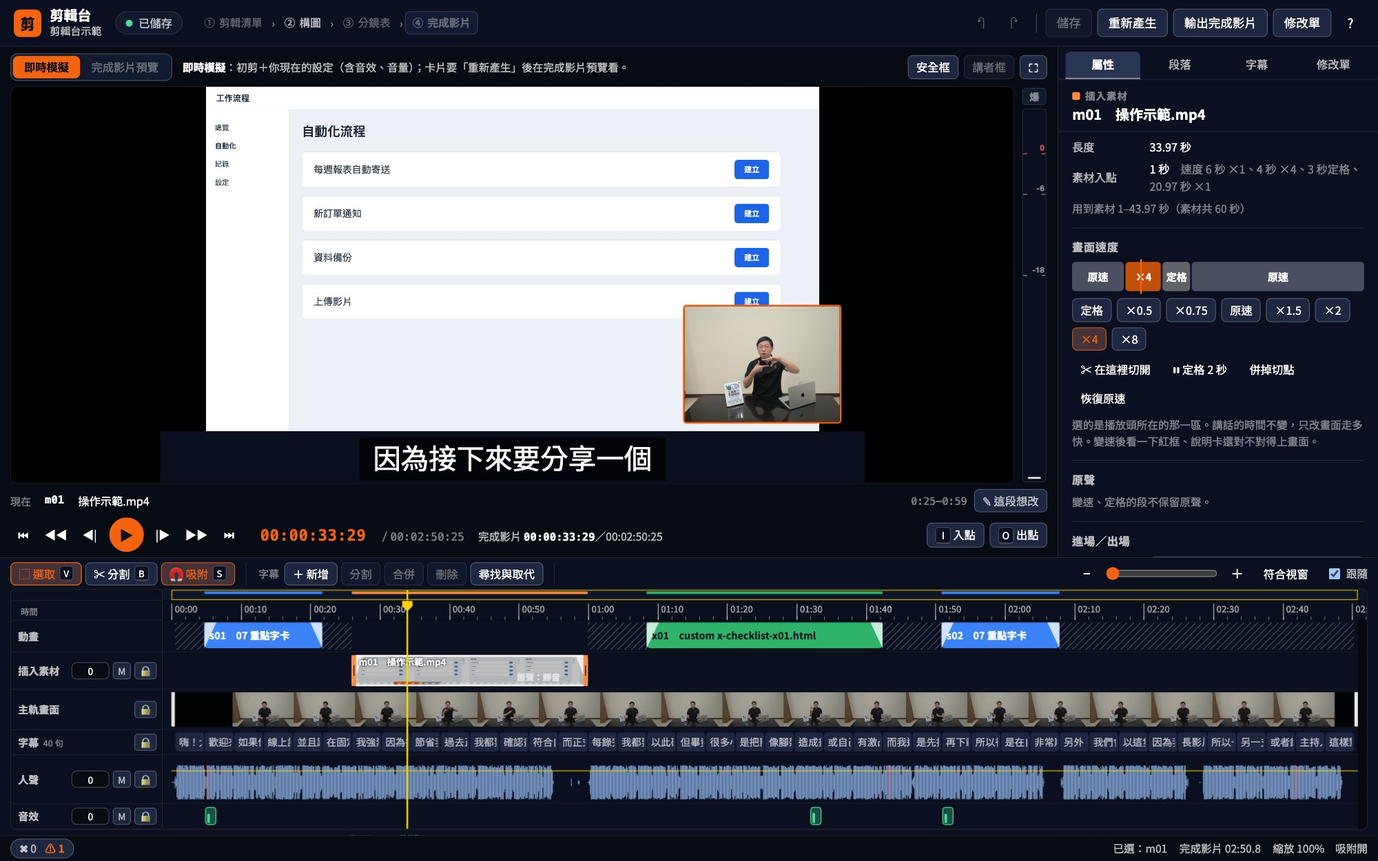
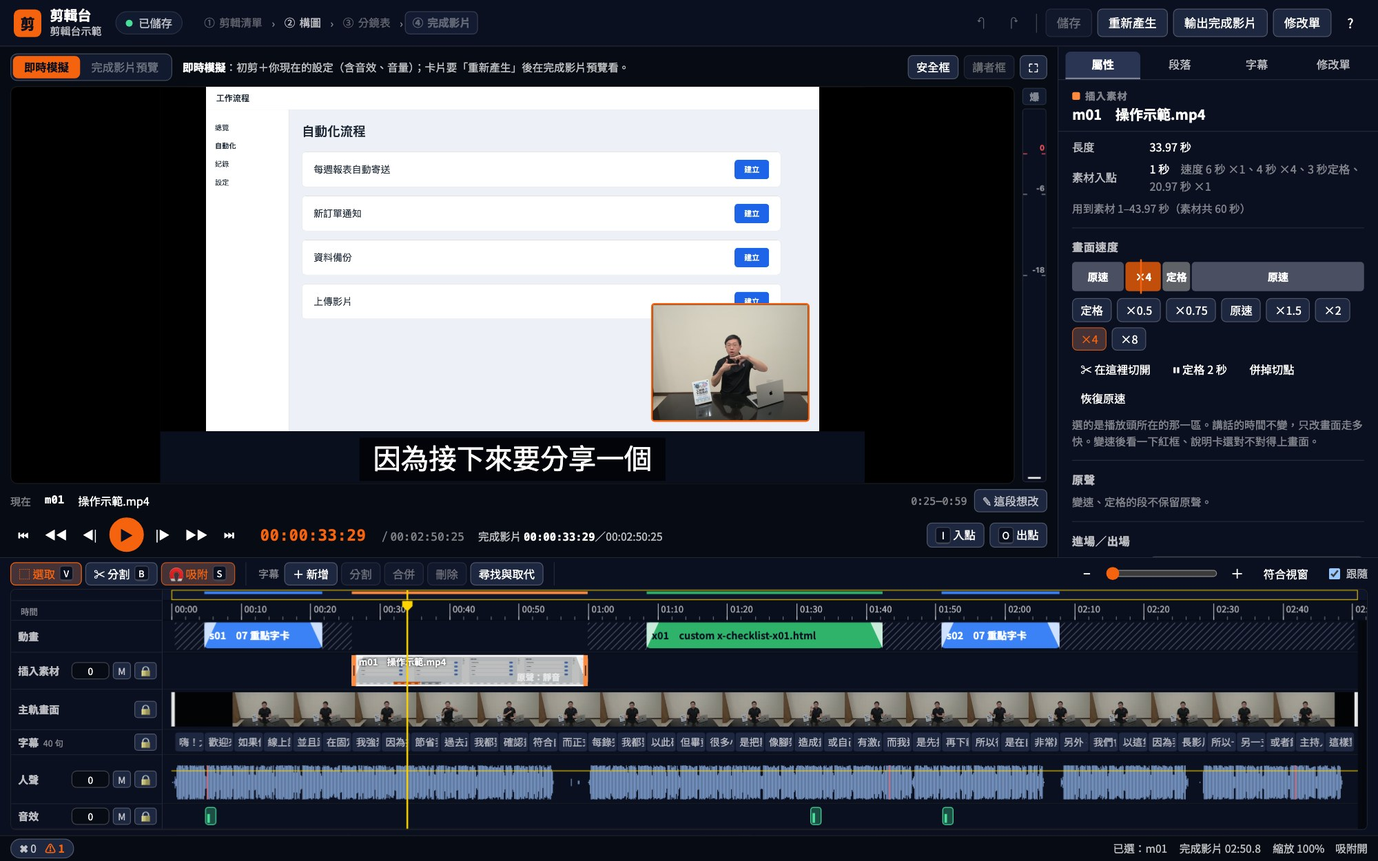
橫式錄影段的子母畫面移進錄影右下角，不再凸出錄影外面
- 外框離錄影邊 16 px，右緣和小節角標對齊（16:9 錄影：本體 x 1339–1771、y 591–915）；不用寫座標，比例不同自動算
- 只碰到素材邊邊的（手機直式、正方形的圖）留在原位；鋪滿、tape、右側步驟清單的段不移；直式不受影響
- 紅框、說明卡、箭頭、放大鏡的避讓範圍，錄影從小視窗長出的進場、講者飛進小視窗的落點，剪輯台預覽都跟著新位置
- 和位置不同的段相接時，小視窗滑 0.6 秒過去；--check --json 的 items[].out 加 pipShift
- README、官網（功能清單、常見問題、剪輯台截圖）、llms.txt、style.md、USAGE、規格同步更新；補測試

Changed region(s): [[0.465, 0.3432, 0.62, 0.4992]]

diff --git a/dev/site/index.html b/dev/site/index.html
@@ -70,7 +70,7 @@
     "橫式長片與直式短影片",
     "風格包：主色、背景、亮暗主題",
     "網頁版剪輯台：裁剪、音量、轉場、字幕、卡片文字即時改；螢幕錄影可以自己快轉、減速、定格",
-    "螢幕錄影分析：自動找出切頁、開視窗、等待、捲動，AI 加紅框、箭頭、放大、打碼",
+    "螢幕錄影分析：自動找出切頁、開視窗、等待、捲動，AI 加紅框、箭頭、放大、打碼；講者小視窗自動放進錄影範圍內",
     "只有開頭結尾露臉也可以：沒有講者的段自動用全螢幕，和縮到 87% 的錄影對齊",
     "構圖頁：拖框、選主色、上傳背景，用自己的畫面預覽動畫，儲存後自動更新剪輯預覽",
     "AI 背景設計：複製生圖指令，A／B／C 三組背景依全畫面、側邊欄、章節各自選圖，套用本集風格",
@@ -238,6 +238,14 @@
      "acceptedAnswer": {
       "@type": "Answer",
       "text": "可以。開頭結尾的錄影放 camera、中間的旁白放 voice，檔名照順序編號；如果中間是邊錄邊講的螢幕錄影，放 screen 也會自動接進主軌。工具會認出中間沒有講者，不放小視窗，動畫改用全螢幕。"
+     }
+    },
+    {
+     "@type": "Question",
+     "name": "螢幕錄影和講者小視窗會互相擋到嗎？",
+     "acceptedAnswer": {
+      "@type": "Answer",
+      "text": "錄影縮到 87% 放在字幕上方，講者小視窗會自動移進錄影的右下角，不會凸出錄影外面，也不用自己算位置；手機直式、正方形這種窄的素材，小視窗留在旁邊。重點剛好被擋到時工具會提醒，可以推近那一塊，或讓那一段不露臉。"
      }
     },
     {
@@ -591,7 +599,7 @@
   <ul class="cmds">
     <li><b>「剪乾淨」</b><span>找出講錯重講、卡住的句子剪掉，縮短停頓，照講稿上字幕；做完給你一個網址，字幕疊在畫面上（只有聲音的黑屏也看得到），邊聽邊看，錯字直接改</span></li>
     <li><b>「做出完成影片」</b><span>看每段在講什麼：有素材就配素材，最值得的段專門設計動畫（每 2 分鐘至少一段），其他套模板直接產出；配上子母畫面和音效，人聲音量調到一致</span></li>
-    <li><b>「配螢幕錄影」</b><span>把操作畫面插到講到的那一段：等待的地方快轉、要看清楚的地方放慢或定格，用放大、紅框、箭頭、說明卡指出重點，金鑰和個資打碼，多步驟的操作標上 STEP</span></li>
+    <li><b>「配螢幕錄影」</b><span>把操作畫面插到講到的那一段：等待的地方快轉、要看清楚的地方放慢或定格，用放大、紅框、箭頭、說明卡指出重點，金鑰和個資打碼，多步驟的操作標上 STEP；講者小視窗會放在錄影範圍內</span></li>
     <li><b>「可以了，輸出完成影片」</b><span>輸出 final.mp4，附上驗收截圖</span></li>
     <li><b>「輸出剪映素材」</b><span>拆成主軌、透明背景的動畫片段和字幕檔，帶去剪映繼續剪</span></li>
   </ul>
@@ -874,6 +882,7 @@ P.sfx(<span class="s">'success'</span>, <span class="s">'#41'</span>);</pre>
     <details><summary><h3>只有旁白、沒有畫面的段落怎麼辦？</h3></summary><p>AI 會先找對得上講解的螢幕錄影或圖片蓋上去；找不到素材，就照講解畫成全畫面的示意動畫，不會留黑畫面。這些段沒有講者，動畫會用滿整個畫面：左右和縮到 87% 的螢幕錄影對齊，下方留給字幕，右上角留給小節角標，錄影和動畫接起來不會跳。</p></details>
     <details><summary><h3>AI 怎麼分析我放的素材？</h3></summary><p>工具先認主軌（真人錄影、旁白、邊錄邊講的螢幕錄影），找出沒有講者的句子，再掃每支螢幕錄影：哪一秒切頁、開視窗、哪裡在等待、哪裡在捲動。接著 AI 看過每支錄影和每批圖片、寫下內容和關鍵字，工具用關鍵字把素材對到字幕，寫分鏡時就知道哪一句可以配哪一段。預覽時會報告素材用了幾支、哪些沒用到。</p></details>
     <details><summary><h3>只有開頭結尾露臉，中間都是螢幕錄影可以嗎？</h3></summary><p>可以。開頭結尾的錄影放 camera、中間的旁白放 voice，檔名照順序編號；如果中間是邊錄邊講的螢幕錄影，放 screen 也會自動接進主軌。工具會認出中間沒有講者，不放小視窗，動畫改用全螢幕。</p></details>
+    <details><summary><h3>螢幕錄影和講者小視窗會互相擋到嗎？</h3></summary><p>錄影縮到 87% 放在字幕上方，講者小視窗會自動移進錄影的右下角，不會凸出錄影外面，也不用自己算位置；手機直式、正方形這種窄的素材，小視窗留在旁邊。重點剛好被擋到時工具會提醒，可以推近那一塊，或讓那一段不露臉。</p></details>
     <details><summary><h3>螢幕錄影太慢、太快怎麼辦？</h3></summary><p>AI 會把等待的地方快轉、要看清楚的地方放慢或定格，並用紅框、箭頭、放大指出重點，露出金鑰或個資的地方打碼。這些都會顯示在剪輯台：點一段錄影，色條上每一區一個速度，你也可以自己切開、改成定格、減速或快轉（最快 8 倍）。講話的時間不變，只改畫面走多快。</p></details>
     <details><summary><h3>觀眾怎麼知道現在講到哪一段？</h3></summary><p>講稿用 ## 分章、### 分小節，完成影片右上角會一直顯示「章號＋目前小節」，子母畫面、全畫面動畫和螢幕錄影都看得到；多步驟的操作，錄影角落另外有 STEP 膠囊標出第幾步。</p></details>
     <details><summary><h3>素材很大，可以放在外接硬碟嗎？</h3></summary><p>可以。專案資料夾放在外接硬碟，在 projects/ 底下建一個捷徑指過去，提示詞照樣寫 @projects/&lt;專案&gt;。工具會照常讀寫硬碟上的素材和完成影片。</p></details>

diff --git a/shared/template/tools/editor/app.js b/shared/template/tools/editor/app.js
@@ -258,7 +258,8 @@ function recompute() {
       o.exitNow = same(sc.exit, sb?.exit) ? it.exit ?? null : sc.exit ?? null;
       Object.assign(o, { in: Number.isFinite(sc.in) ? sc.in : 0, speed: Number.isFinite(sc.speed) ? sc.speed : 1, volume: sc.volume === undefined ? null : sc.volume,
         enter: sc.enter ?? null, exit: sc.exit ?? null, mediaKind: m?.kind || 'video', srcName: String(sc.src || '').split('/').pop(), srcDur: m?.info?.dur ?? null,
-        knots: speedDirty(sc, sb) || !same(sc.from, sb?.from) || !same(sc.to, sb?.to) ? knotsOf(speedModel(sc, o.end - o.start, o.start, null), m?.info?.dur ?? null) : it.out?.annotations?.knots ?? null });
+        knots: speedDirty(sc, sb) || !same(sc.from, sb?.from) || !same(sc.to, sb?.to) ? knotsOf(speedModel(sc, o.end - o.start, o.start, null), m?.info?.dur ?? null) : it.out?.annotations?.knots ?? null,
+        pipShift: it.out?.pipShift ?? null });
     }
     o.inCut = app.edit.cuts.some(([a, b]) => o.start < b && o.end > a);
     o.title = segTitle(sc) || (o.type === 'media' ? o.srcName || o.label : o.label);

diff --git a/shared/template/tools/editor/preview.js b/shared/template/tools/editor/preview.js
@@ -178,6 +178,13 @@ export class SimPreview {
     if (showPip) {
       pip.style.display = 'block';
       pip.style.opacity = String(op);
+      // 小視窗的位置和完成影片一樣：橫式錄影段在錄影裡面（lib/media.mjs pipShift）
+      const c = A.canvas?.();
+      if (Array.isArray(c?.pip)) {
+        const [dx, dy] = active.pipShift || [0, 0];
+        pip.style.left = `${((c.pip[0] + dx) / c.W) * 100}%`;
+        pip.style.top = `${((c.pip[1] + dy) / c.H) * 100}%`;
+      }
       const g = pip.getContext('2d'), v = this.v;
       if (v.videoWidth) {
         const cw = pip.width, ch = pip.height, vr = v.videoWidth / v.videoHeight, cr = cw / ch;

diff --git a/dev/loop/last-check.md b/dev/loop/last-check.md
@@ -1,19 +1,19 @@
-# check-all 2026-11-07 09:38
+# check-all 2026-11-07 10:40
 
-專案：/var/folders/w2/4tz31w6x1216lyjk6c_dy_j00000gp/T/auto-edit-check-hl4kgr/專案（合成，已清掉）；總耗時 639s；結果：全部通過
+專案：/var/folders/w2/4tz31w6x1216lyjk6c_dy_j00000gp/T/auto-edit-check-x5nZ0h/專案（合成，已清掉）；總耗時 635s；結果：全部通過
 
 | 步驟 | 結果 | 秒 | 細節 |
 |---|---|---|---|
-| node --test dev/tests/*.test.mjs | ✓ | 599.8 | pass 1184、fail 0 |
-| 合成測試專案（70 秒影片、20 句字幕、8 段 plan） | ✓ | 1.1 | /var/folders/w2/4tz31w6x1216lyjk6c_dy_j00000gp/T/auto-edit-check-hl4kgr/專案 |
-| build.mjs --check（/var/folders/w2/4tz31w6x1216lyjk6c_dy_j00000gp/T/auto-edit-check-hl4kgr/專案） | ✓ | 0.4 | 通過：8 段，13 個提醒（⚠）。；✖ 0、⚠ 13<br>⚠ 沒有畫面的區間共 3 段、11.00s → 照 style.md「連續覆蓋」補卡片或情境動畫，或把前一段的 to 延到下一段的 from（0 秒相接）；故意留給講者的就在 plan.json 寫 "rhythm": "spaced"<br>⚠ #N@詞 有 4 個用字數比例估（沒有 work/transcript.json（rough.mp4 的詞級逐字稿）），可能差 1 秒：#12@錄影、#13@逐字稿、#14@剪輯清單、#15@初剪 → 對 rough.mp4 重轉詞級逐字稿：npx hyperframes transcribe /var/folders/w2/4tz31w6x1216lyjk6c_dy_j00000gp/T/auto-edit-check-hl4kgr/專案/work/rough.mp4 -d /var/folders/w2/4tz31w6x1216lyjk6c_dy_j00000gp/T/auto-edit-check-hl4kgr/專案/work --model small --language zh --json<br>⚠ [s01 concept] 「一般字卡」大約會蓋到講者框 25% → 看 --storyboard 的截圖確認，擋到臉或手勢就換情境（例：12 關鍵詞條列、04 全畫面）<br>⚠ [s02 chapter] 沒有副標（slots.sub）：只有章號和章名，畫面很空 → 補一句 ≤ 12 字、講這一章要做什麼（講稿 ## 章名冒號後面那句可以直接用） |
-| look.mjs run（臉部偵測 → rough-look.mp4；合成影片沒有臉 → 只調光） | ✓ | 0.1 | 講者調光、瘦臉、美顏：/var/folders/w2/4tz31w6x1216lyjk6c_dy_j00000gp/T/auto-edit-check-hl4kgr/專案（rough.mp4 640×360、25 fps、1875 格、1:15.0）<br>設定：調光 關、瘦臉 關、美顏 關（kit/look.json；plan.json 沒有寫 look）<br>瘦臉、美顏都關閉（kit/look.json slim = 0、beauty = 0）→ 不用跑；調光也關 |
-| build.mjs（產生 work/hyperframes） | ✓ | 9.3 | 重新編碼底片 → ../../../../../var/folders/w2/4tz31w6x1216lyjk6c_dy_j00000gp/T/auto-edit-check-hl4kgr/專案/work/hyperframes/assets/rough.mp4（30fps、每秒一個關鍵影格、人聲調到 −14 LUFS、剪接點微淡化）…<br>量人聲響度（第一次會花一點時間，之後用快取）…<br>人聲響度 −21.9 LUFS → −13.9 LUFS（true peak −8.7）<br>音效比例：主音效比人聲小 3.0–12.6 dB（中位 5.9）；上限是比人聲小 3 dB<br>剪接點微淡化：2 個接點，前後各 15 ms<br>⚠ 沒有畫面的區間共 3 段、11.00s → 照 style.md「連續覆蓋」補卡片或情境動畫，或把前一段的 to 延到下一段的 from（0 秒相接）；故意留給講者的就在 plan.json 寫 "rhythm": "spaced"<br>沒有畫面的區間（> 1.0s）：0:01.00–0:04.50（3.50s）、0:11.00–0:14.75（3.75s）、0:17.25–0:21.00（3.75s）；共 11.00s，佔講解 15.3% |
+| node --test dev/tests/*.test.mjs | ✓ | 596.1 | pass 1189、fail 0 |
+| 合成測試專案（70 秒影片、20 句字幕、8 段 plan） | ✓ | 1.1 | /var/folders/w2/4tz31w6x1216lyjk6c_dy_j00000gp/T/auto-edit-check-x5nZ0h/專案 |
+| build.mjs --check（/var/folders/w2/4tz31w6x1216lyjk6c_dy_j00000gp/T/auto-edit-check-x5nZ0h/專案） | ✓ | 0.4 | 通過：8 段，13 個提醒（⚠）。；✖ 0、⚠ 13<br>⚠ 沒有畫面的區間共 3 段、11.00s → 照 style.md「連續覆蓋」補卡片或情境動畫，或把前一段的 to 延到下一段的 from（0 秒相接）；故意留給講者的就在 plan.json 寫 "rhythm": "spaced"<br>⚠ #N@詞 有 4 個用字數比例估（沒有 work/transcript.json（rough.mp4 的詞級逐字稿）），可能差 1 秒：#12@錄影、#13@逐字稿、#14@剪輯清單、#15@初剪 → 對 rough.mp4 重轉詞級逐字稿：npx hyperframes transcribe /var/folders/w2/4tz31w6x1216lyjk6c_dy_j00000gp/T/auto-edit-check-x5nZ0h/專案/work/rough.mp4 -d /var/folders/w2/4tz31w6x1216lyjk6c_dy_j00000gp/T/auto-edit-check-x5nZ0h/專案/work --model small --language zh --json<br>⚠ [s01 concept] 「一般字卡」大約會蓋到講者框 25% → 看 --storyboard 的截圖確認，擋到臉或手勢就換情境（例：12 關鍵詞條列、04 全畫面）<br>⚠ [s02 chapter] 沒有副標（slots.sub）：只有章號和章名，畫面很空 → 補一句 ≤ 12 字、講這一章要做什麼（講稿 ## 章名冒號後面那句可以直接用） |
+| look.mjs run（臉部偵測 → rough-look.mp4；合成影片沒有臉 → 只調光） | ✓ | 0.1 | 講者調光、瘦臉、美顏：/var/folders/w2/4tz31w6x1216lyjk6c_dy_j00000gp/T/auto-edit-check-x5nZ0h/專案（rough.mp4 640×360、25 fps、1875 格、1:15.0）<br>設定：調光 關、瘦臉 關、美顏 關（kit/look.json；plan.json 沒有寫 look）<br>瘦臉、美顏都關閉（kit/look.json slim = 0、beauty = 0）→ 不用跑；調光也關 |
+| build.mjs（產生 work/hyperframes） | ✓ | 9.3 | 重新編碼底片 → ../../../../../var/folders/w2/4tz31w6x1216lyjk6c_dy_j00000gp/T/auto-edit-check-x5nZ0h/專案/work/hyperframes/assets/rough.mp4（30fps、每秒一個關鍵影格、人聲調到 −14 LUFS、剪接點微淡化）…<br>量人聲響度（第一次會花一點時間，之後用快取）…<br>人聲響度 −21.9 LUFS → −13.9 LUFS（true peak −8.7）<br>音效比例：主音效比人聲小 3.0–12.6 dB（中位 5.9）；上限是比人聲小 3 dB<br>剪接點微淡化：2 個接點，前後各 15 ms<br>⚠ 沒有畫面的區間共 3 段、11.00s → 照 style.md「連續覆蓋」補卡片或情境動畫，或把前一段的 to 延到下一段的 from（0 秒相接）；故意留給講者的就在 plan.json 寫 "rhythm": "spaced"<br>沒有畫面的區間（> 1.0s）：0:01.00–0:04.50（3.50s）、0:11.00–0:14.75（3.75s）、0:17.25–0:21.00（3.75s）；共 11.00s，佔講解 15.3% |
 | audit.mjs --all --json（0 ✖） | ✓ | 4.0 | ✖ 0、⚠ 1 |
-| hyperframes snapshot --at（工作區釘的版本；開頭、中段、結尾各一格） | ✓ | 3.4 | 3 張（1.5,30,58.5s） |
-| 合成直式測試專案（360×640 直拍影片、20 句字幕、7 段 plan，含 16:9 錄影） | ✓ | 1.1 | /var/folders/w2/4tz31w6x1216lyjk6c_dy_j00000gp/T/auto-edit-check-v-kcsp2T/專案 |
-| 直式｜build.mjs --check（/var/folders/w2/4tz31w6x1216lyjk6c_dy_j00000gp/T/auto-edit-check-v-kcsp2T/專案） | ✓ | 0.4 | 通過：7 段，29 個提醒（⚠）。；✖ 0、⚠ 29<br>⚠ 沒有畫面的區間共 3 段、11.00s → 照 style.md「連續覆蓋」補卡片或情境動畫，或把前一段的 to 延到下一段的 from（0 秒相接）；故意留給講者的就在 plan.json 寫 "rhythm": "spaced"<br>⚠ #N@詞 有 4 個用字數比例估（沒有 work/transcript.json（rough.mp4 的詞級逐字稿）），可能差 1 秒：#12@錄影、#13@逐字稿、#14@剪輯清單、#15@初剪 → 對 rough.mp4 重轉詞級逐字稿：npx hyperframes transcribe /var/folders/w2/4tz31w6x1216lyjk6c_dy_j00000gp/T/auto-edit-check-v-kcsp2T/專案/work/rough.mp4 -d /var/folders/w2/4tz31w6x1216lyjk6c_dy_j00000gp/T/auto-edit-check-v-kcsp2T/專案/work --model small --language zh --json<br>⚠ [s01 concept] 「一般字卡」大約會蓋到講者框 37% → 看 --storyboard 的截圖確認，擋到臉或手勢就換情境（例：12 關鍵詞條列、04 全畫面）<br>⚠ [s02 chapter] 沒有副標（slots.sub）：只有章號和章名，畫面很空 → 補一句 ≤ 12 字、講這一章要做什麼（講稿 ## 章名冒號後面那句可以直接用） |
-| 直式｜look.mjs run（臉部偵測 → rough-look.mp4；合成影片沒有臉 → 只調光） | ✓ | 0.1 | 講者調光、瘦臉、美顏：/var/folders/w2/4tz31w6x1216lyjk6c_dy_j00000gp/T/auto-edit-check-v-kcsp2T/專案（rough.mp4 360×640、25 fps、1875 格、1:15.0）<br>設定：調光 關、瘦臉 關、美顏 關（kit/look.json；plan.json 沒有寫 look）<br>瘦臉、美顏都關閉（kit/look.json slim = 0、beauty = 0）→ 不用跑；調光也關 |
-| 直式｜build.mjs（產生 work/hyperframes） | ✓ | 11.3 | 重新編碼底片 → ../../../../../var/folders/w2/4tz31w6x1216lyjk6c_dy_j00000gp/T/auto-edit-check-v-kcsp2T/專案/work/hyperframes/assets/rough.mp4（30fps、每秒一個關鍵影格、人聲調到 −14 LUFS、剪接點微淡化）…<br>量人聲響度（第一次會花一點時間，之後用快取）…<br>人聲響度 −21.9 LUFS → −13.9 LUFS（true peak −8.7）<br>音效比例：主音效比人聲小 3.0–12.6 dB（中位 5.9）；上限是比人聲小 3 dB<br>剪接點微淡化：2 個接點，前後各 15 ms<br>⚠ 沒有畫面的區間共 3 段、11.00s → 照 style.md「連續覆蓋」補卡片或情境動畫，或把前一段的 to 延到下一段的 from（0 秒相接）；故意留給講者的就在 plan.json 寫 "rhythm": "spaced"<br>沒有畫面的區間（> 1.0s）：0:01.00–0:04.50（3.50s）、0:11.00–0:14.75（3.75s）、0:17.25–0:21.00（3.75s）；共 11.00s，佔講解 15.3% |
+| hyperframes snapshot --at（工作區釘的版本；開頭、中段、結尾各一格） | ✓ | 3.5 | 3 張（1.5,30,58.5s） |
+| 合成直式測試專案（360×640 直拍影片、20 句字幕、7 段 plan，含 16:9 錄影） | ✓ | 1.2 | /var/folders/w2/4tz31w6x1216lyjk6c_dy_j00000gp/T/auto-edit-check-v-44BbWe/專案 |
+| 直式｜build.mjs --check（/var/folders/w2/4tz31w6x1216lyjk6c_dy_j00000gp/T/auto-edit-check-v-44BbWe/專案） | ✓ | 0.4 | 通過：7 段，29 個提醒（⚠）。；✖ 0、⚠ 29<br>⚠ 沒有畫面的區間共 3 段、11.00s → 照 style.md「連續覆蓋」補卡片或情境動畫，或把前一段的 to 延到下一段的 from（0 秒相接）；故意留給講者的就在 plan.json 寫 "rhythm": "spaced"<br>⚠ #N@詞 有 4 個用字數比例估（沒有 work/transcript.json（rough.mp4 的詞級逐字稿）），可能差 1 秒：#12@錄影、#13@逐字稿、#14@剪輯清單、#15@初剪 → 對 rough.mp4 重轉詞級逐字稿：npx hyperframes transcribe /var/folders/w2/4tz31w6x1216lyjk6c_dy_j00000gp/T/auto-edit-check-v-44BbWe/專案/work/rough.mp4 -d /var/folders/w2/4tz31w6x1216lyjk6c_dy_j00000gp/T/auto-edit-check-v-44BbWe/專案/work --model small --language zh --json<br>⚠ [s01 concept] 「一般字卡」大約會蓋到講者框 37% → 看 --storyboard 的截圖確認，擋到臉或手勢就換情境（例：12 關鍵詞條列、04 全畫面）<br>⚠ [s02 chapter] 沒有副標（slots.sub）：只有章號和章名，畫面很空 → 補一句 ≤ 12 字、講這一章要做什麼（講稿 ## 章名冒號後面那句可以直接用） |
+| 直式｜look.mjs run（臉部偵測 → rough-look.mp4；合成影片沒有臉 → 只調光） | ✓ | 0.1 | 講者調光、瘦臉、美顏：/var/folders/w2/4tz31w6x1216lyjk6c_dy_j00000gp/T/auto-edit-check-v-44BbWe/專案（rough.mp4 360×640、25 fps、1875 格、1:15.0）<br>設定：調光 關、瘦臉 關、美顏 關（kit/look.json；plan.json 沒有寫 look）<br>瘦臉、美顏都關閉（kit/look.json slim = 0、beauty = 0）→ 不用跑；調光也關 |
+| 直式｜build.mjs（產生 work/hyperframes） | ✓ | 11.2 | 重新編碼底片 → ../../../../../var/folders/w2/4tz31w6x1216lyjk6c_dy_j00000gp/T/auto-edit-check-v-44BbWe/專案/work/hyperframes/assets/rough.mp4（30fps、每秒一個關鍵影格、人聲調到 −14 LUFS、剪接點微淡化）…<br>量人聲響度（第一次會花一點時間，之後用快取）…<br>人聲響度 −21.9 LUFS → −13.9 LUFS（true peak −8.7）<br>音效比例：主音效比人聲小 3.0–12.6 dB（中位 5.9）；上限是比人聲小 3 dB<br>剪接點微淡化：2 個接點，前後各 15 ms<br>⚠ 沒有畫面的區間共 3 段、11.00s → 照 style.md「連續覆蓋」補卡片或情境動畫，或把前一段的 to 延到下一段的 from（0 秒相接）；故意留給講者的就在 plan.json 寫 "rhythm": "spaced"<br>沒有畫面的區間（> 1.0s）：0:01.00–0:04.50（3.50s）、0:11.00–0:14.75（3.75s）、0:17.25–0:21.00（3.75s）；共 11.00s，佔講解 15.3% |
 | 直式｜audit.mjs --all --json（0 ✖） | ✓ | 3.9 | ✖ 0、⚠ 2 |
-| 直式｜hyperframes snapshot --at（工作區釘的版本；開頭、中段、結尾各一格） | ✓ | 3.9 | 3 張（1.5,30,58.5s） |
+| 直式｜hyperframes snapshot --at（工作區釘的版本；開頭、中段、結尾各一格） | ✓ | 3.7 | 3 張（1.5,30,58.5s） |

diff --git a/shared/style.md b/shared/style.md
@@ -236,6 +236,7 @@ audit 會量、不用自己算的：標籤 ≤ 10 字、同一列元件中線對
 - 錄影露出個資（資料夾名稱、email、金鑰、通知）：換一段沒有的、用 `hold` 停在乾淨的那格，都不行就告訴使用者，不要硬放
 - 錄影預設靜音，只聽講解；講解在講錄影本身的聲音（提示音、語音回覆）時才保留（`volume` 先寫 −6，蓋過人聲再調小）
 - 講者縮到右下角子母畫面；只有聲音的段落沒有講者，不放子母畫面，全畫面的段自動換「全寬」版型（本檔「版面」）
+- 橫式錄影段的子母畫面要在錄影範圍內：工具自動移進素材右下角，外框離素材邊 16（16:9 錄影：本體 x 1339–1771、y 591–915，右緣和小節角標對齊），不用寫座標；小視窗只碰到素材邊邊（手機直式、正方形的圖）才留在畫布右下；和位置不同的段相接時滑 0.6 秒過去
 - 錄影段落不放下方資訊卡；要強調畫面上的東西，用紅框、說明卡、聚光燈、箭頭、運鏡、放大鏡；字卡密度往稀的那端下
 - 說明卡（callout）屬於標註，不是資訊卡：它是紅框旁邊用引線接出去的一張小卡，只在錄影段用，所以不違反「錄影段落不放下方資訊卡」。一張卡只寫一個名詞或一個動作，最多 12 字（全形 1、半形 0.5），可以配一個圖示；細節交給講解
 - 說明卡至少完整停 1.2 秒（一般進場 until − at ≥ 2.35 秒）；短句用 quick 一起淡入，至少完整停 0.8 秒（until − at ≥ 1.35 秒）；卡片放框的哪一邊由 build 自動挑，放不下會告訴你換哪邊

diff --git a/shared/template/USAGE.md b/shared/template/USAGE.md
@@ -518,7 +518,7 @@ m01｜media 操作示範.mp4｜1:01.30–1:14.10｜12.8s｜—｜—（rough 1:0
 | `retime` | — | 同一段裡變速、定格：`[{ "at": "#21", "src": 19 }, …]`，講到 `at` 時錄影在第 `src` 秒，兩點之間速度 build 算（下限 ×0.25、上限 ×16，3 秒內的跳過等待可到 ×64）；`src` 一樣＝定格。第一點之前、最後一點之後是正常速度。運鏡、紅框跨整段；不保留原聲；和 `in`／`out`／`speed`／`hold` 擇一 |
 | `redact` | — | 打碼：`[{ "box": [x, y, w, h], "at": "#21", "until": "#22e" }]`，框裡的東西模糊後燒進影片（放大鏡也看不到原文）；`at`、`until` 不寫＝整段。框要蓋住那段時間它會出現的所有位置，build 完在拼圖看一次 |
 | `fit` | `"contain"` | `contain`＝整張看得到，放在字幕帶上方（y 0–940），空白處是黑底；`cover`＝鋪滿 1920×1080，多的裁掉 |
-| `pip` | `true` | 右下角子母畫面露臉；只有聲音的區間自動不放。`false`＝整段不露臉 |
+| `pip` | `true` | 右下角子母畫面露臉（橫式會自動移進素材右下角，不用寫座標）；只有聲音的區間自動不放。`false`＝整段不露臉 |
 | `volume` | `null` | `null`＝素材靜音；寫 dB 數字（−60～+12）＝保留素材原聲 |
 | `enter`／`exit` | `"fade"` | `"cut"`、`"fade"`、`"slide"`（從右滑入、往左滑出）、`"zoom"` |
 | `moves`／`marks`／`lens` | — | 運鏡、紅框（含跟捲動 `path`）、放大鏡（5.5） |

diff --git a/specs/contracts/media.md b/specs/contracts/media.md
@@ -85,7 +85,7 @@ screen(rect, cam)  = [cam.x + cam.z·X, cam.y + cam.z·Y, cam.z·W, cam.z·H]   
 | 夾回安全區 | 只沿著邊的方向平移（right／left 調 top、top／bottom 調中心 x），讓卡片落在安全區 **x 40–1880、y 40–900** | x 40–1880：`TR/rec:L15`；y 900＝字幕區 920（R4.1）− 20 |
 | 引線 | 3 px `--sc-warn`；框端 r 5 的紅點。卡片和框在該方向重疊 ≥ 16 px（各縮 8）→ 直線，取重疊區中點；否則一個直角（框邊中點 → 轉角 → 卡片近邊中點） | `TR/rec:L164-191`、`rec-overlay.css:106` |
 
-**放不下**：卡片（估算寬）超出安全區、壓到右下角子母畫面禁入區 `PIP_ZONE [1424, 581, 1888, 951]`（`pipAt` 在 `at`、中點、`until − 0.01` 任一為真時才算）、壓到同時出現的 STEP 膠囊、同時出現的其他 callout 卡片或框、同時出現的 marks 紅框（矩形外擴 2 px）。
+**放不下**：卡片（估算寬）超出安全區、壓到右下角子母畫面禁入區 `PIP_ZONE [1424, 581, 1888, 951]`（橫式錄影段的小視窗移進素材右下角，禁入區跟著 `pipShift` 移；`pipAt` 在 `at`、中點、`until − 0.01` 任一為真時才算）、壓到同時出現的 STEP 膠囊、同時出現的其他 callout 卡片或框、同時出現的 marks 紅框（矩形外擴 2 px）。
 
 **時序**（秒，相對 `at`）
 

diff --git a/shared/template/USAGE-reference.md b/shared/template/USAGE-reference.md
@@ -265,7 +265,7 @@
 |---|---|---|
 | 內容區 | y 120–870 | 所有卡片文字都在這裡；下方字卡底座在 y 860 |
 | 字幕區 | y ≥ 920（底部 160px） | **什麼都不放**（字幕框在 y 956–1074）。`check --caption-zone` 會把壓到這裡的文字當錯誤 |
-| 子母畫面 | 本體 x 1424–1856、y 594–918（432×324，4:3）；外框禁入區 x 1424–1888、y 581–951 | 只在全畫面情境與 media 段出現。全畫面主卡右緣 ≤ 1380（模板的 04 家族目前寬 1180、右緣 1300）；media 段的紅框、放大鏡壓到這裡會 ⚠ |
+| 子母畫面 | 本體 x 1424–1856、y 594–918（432×324，4:3）；外框禁入區 x 1424–1888、y 581–951 | 只在全畫面情境與 media 段出現。全畫面主卡右緣 ≤ 1380（模板的 04 家族目前寬 1180、右緣 1300）；media 段的小視窗和禁入區自動移進素材右下角（外框離素材邊 16；16:9 錄影：本體 x 1339–1771、y 591–915，禁入區 x 1339–1803、y 578–948；小視窗只碰到素材邊邊的，例如手機直式、正方形的圖，不移），紅框、放大鏡壓到會 ⚠ |
 | media 段可見區 | `fit: "contain"`：y 0–940 置中；`"cover"`：整個畫面 | 素材下緣碰到字幕帶上緣，字幕照常疊在上面 |
 | 講者框 | speakerBox | 透明的卡不能壓到臉與手勢 |
 
